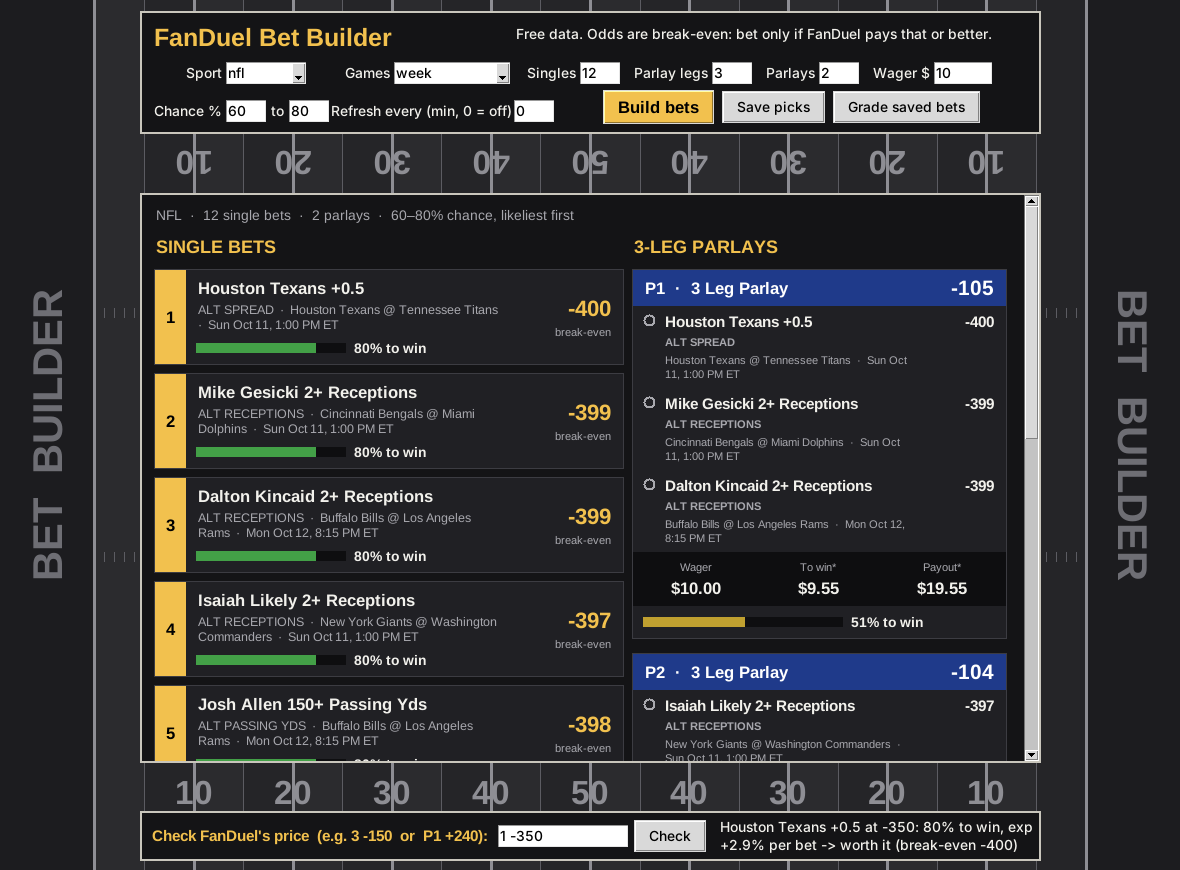
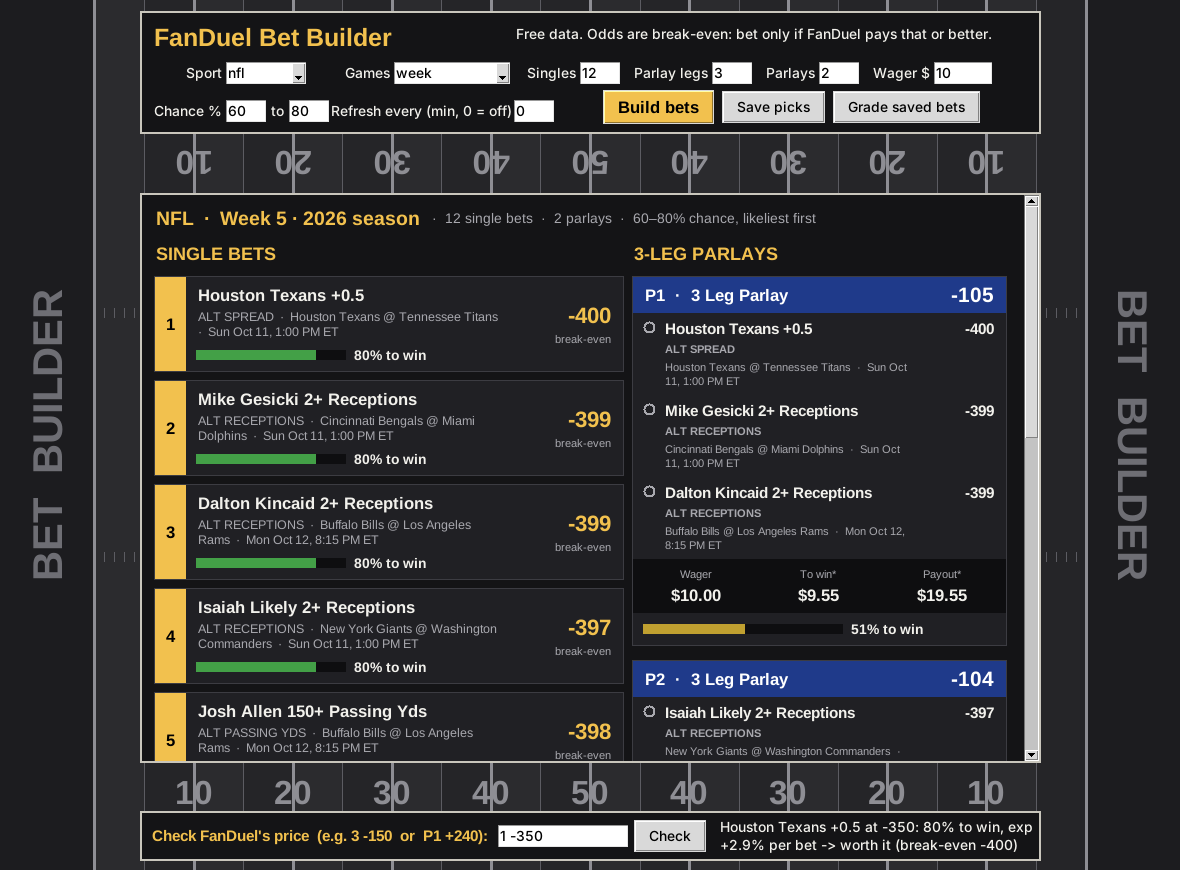
Show the week and season (e.g. Week 5 · 2026 season) on the board
Taken from each game's schedule entry, so it rolls over automatically.

Claude-Session: https://claude.ai/code/session_01FzCvELGmhGBdoQHEqCEwdE

diff --git a/nfl_edge/board.py b/nfl_edge/board.py
@@ -48,14 +48,15 @@ SCALING = {"normal": 0.5, "count": 0.3, "poisson": 1.0}
 
 
 def make_bet(game: str, kickoff: datetime, market: str, pick: str, point: float | None,
-             prob: float, game_id: str, source: str, price: int | None = None) -> Bet:
+             prob: float, game_id: str, source: str, price: int | None = None,
+             week: int | None = None) -> Bet:
     """A bet priced at `price`, or at its break-even odds when there's no price."""
     priced = price is not None
     if price is None:
         price = decimal_to_american(1 / min(max(prob, 0.01), 0.99))
     ev = prob * american_to_decimal(price) - 1
     return Bet(game, kickoff, market, pick, point, price, prob, prob, None, ev,
-               kelly_fraction(prob, price), [source], game_id, priced)
+               kelly_fraction(prob, price), [source], game_id, priced, week)
 
 
 def kickoff_of(row: dict) -> datetime:
@@ -157,6 +158,9 @@ def nfl_board(day: date | None, lo: float, hi: float, now: datetime | None = Non
 
     # 3) Player props.
     bets += _props(rows, all_games, season, lo, hi)
+    weeks = {g["game_id"]: int(g["week"]) for g in rows}
+    for b in bets:
+        b.week = weeks.get(b.game_id)
     return [b for b in bets if lo <= b.fair_prob <= hi]
 
 
@@ -233,5 +237,6 @@ def cfb_board(day: date | None, lo: float, hi: float, now: datetime | None = Non
         game = f"{r['away_team']} @ {r['home_team']}"
         for team, p in ((r["home_team"], p_home), (r["away_team"], 1 - p_home)):
             if lo <= p <= hi:
-                out.append(make_bet(game, kick, "h2h", team, None, p, r["game_id"], "college model"))
+                out.append(make_bet(game, kick, "h2h", team, None, p, r["game_id"], "college model",
+                                    week=int(r["week"])))
     return out

diff --git a/bets.py b/bets.py
@@ -148,6 +148,16 @@ def build(args):
     return bets, singles, parlays
 
 
+def week_label(singles, parlays) -> str:
+    """'Week 5 · 2026 season' from the games actually shown."""
+    weeks = sorted({b.week for b in singles} | {b.week for p in parlays for b in p.legs} - {None})
+    season = season_for(date.today())
+    if not weeks:
+        return f"{season} season"
+    span = f"Week {weeks[0]}" if len(weeks) == 1 else f"Weeks {weeks[0]}-{weeks[-1]}"
+    return f"{span} · {season} season"
+
+
 def show(args, singles, parlays, previous: dict[str, float]) -> None:
     def mark(b) -> str:
         if not previous:
@@ -159,7 +169,8 @@ def show(args, singles, parlays, previous: dict[str, float]) -> None:
             return f"  << chance moved from {old:.0%}"
         return ""
 
-    print(f"\n{args.sport.upper()} | updated {clock(datetime.now(EASTERN), with_date=False)} ET | "
+    print(f"\n{args.sport.upper()} | {week_label(singles, parlays)} | "
+          f"updated {clock(datetime.now(EASTERN), with_date=False)} ET | "
           f"bets with a {args.min_prob:.0f}-{args.max_prob:.0f}% chance, likeliest first\n")
     print("SINGLE BETS  (odds = break-even: bet only if FanDuel pays this or better)")
     if not singles:

diff --git a/bets_gui.py b/bets_gui.py
@@ -210,7 +210,10 @@ class App:
         self.clear()
         head = tk.Frame(self.body, bg=PANEL)
         head.pack(fill="x", padx=12, pady=(10, 4))
-        tk.Label(head, text=f"{args.sport.upper()}  ·  {len(singles)} single bets  ·  "
+        tk.Label(head, text=f"{'NFL' if args.sport == 'nfl' else 'College'}  ·  "
+                            f"{bets.week_label(singles, parlays)}",
+                 bg=PANEL, fg=GOLD, font=("Helvetica", 14, "bold")).pack(side="left")
+        tk.Label(head, text=f"  ·  {len(singles)} single bets  ·  "
                             f"{len(parlays)} parlays  ·  {args.min_prob:.0f}–{args.max_prob:.0f}% "
                             "chance, likeliest first",
                  bg=PANEL, fg=MUTED, font=("Helvetica", 10)).pack(side="left")

diff --git a/nfl_edge/finder.py b/nfl_edge/finder.py
@@ -41,6 +41,7 @@ class Bet:
     books: list[str]
     game_id: str | None = None  # schedule id, for saving and grading
     priced: bool = True  # False when fd_price is only the break-even price
+    week: int | None = None  # schedule week, for display
 
     @property
     def fair_american(self) -> int:
